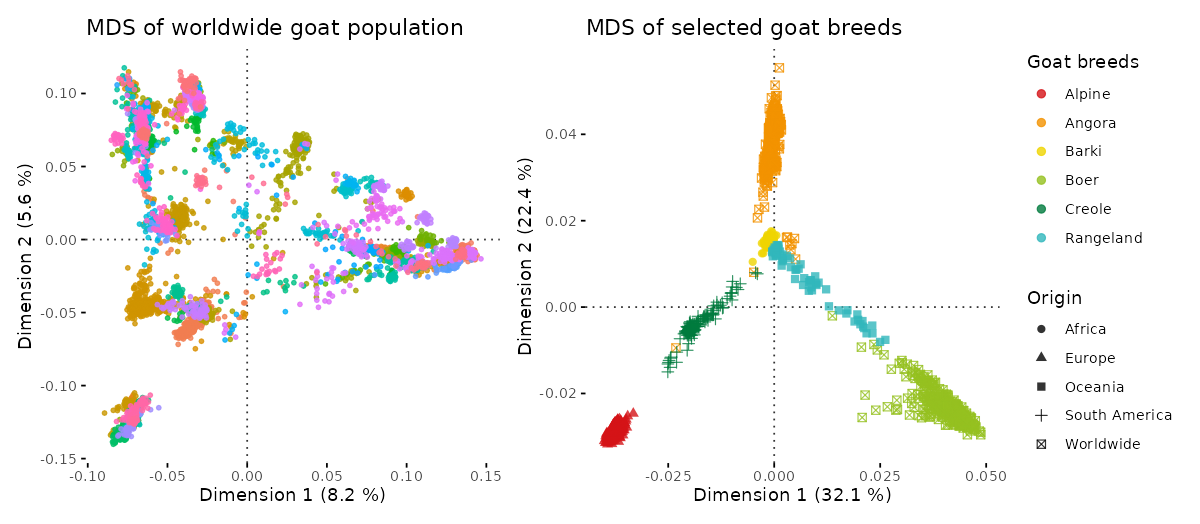
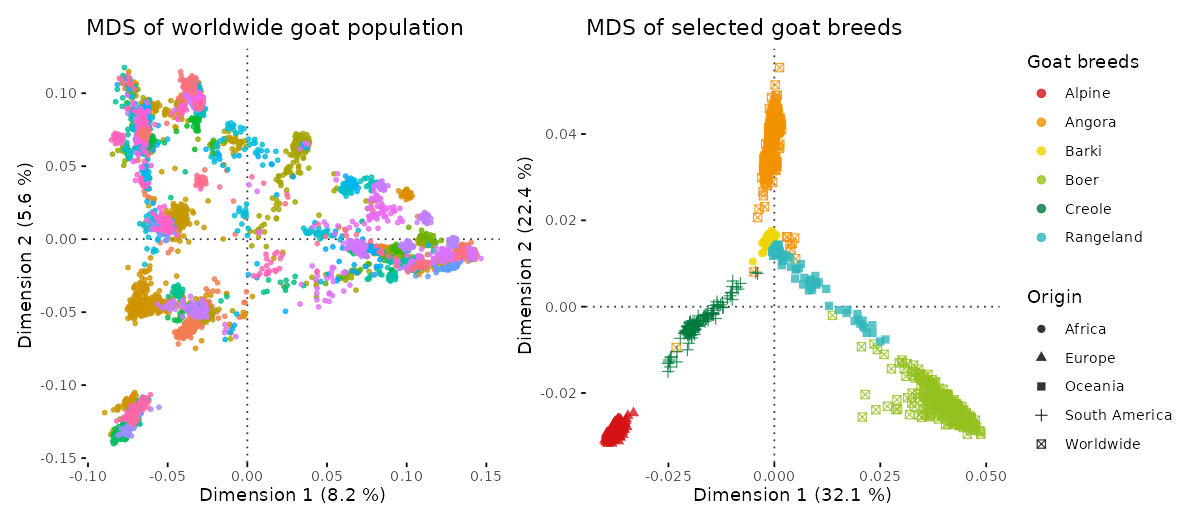
README

diff --git a/README.md b/README.md
@@ -15,7 +15,8 @@ sources, taken or modified as such.
 1. SNP profiling of goat breeds.<br>_Data source_: **Colli et al.** (2018)
    https://doi.org/10.1186/s12711-018-0422-x
 
-<img src="Figures/goat_mds_2.png" height="350px">
+<img src="Figures/goat_mds_12.png" height="350px">
+<img src="Figures/goat_mds_eigen_filter.png" height="350px">
 
 <small>**Multidimensional Scaling (MDS) Plot of a population of 4,653
 Individuals from 169 Goat Breeds genotyped with 49,953 SNPs.**</small>
